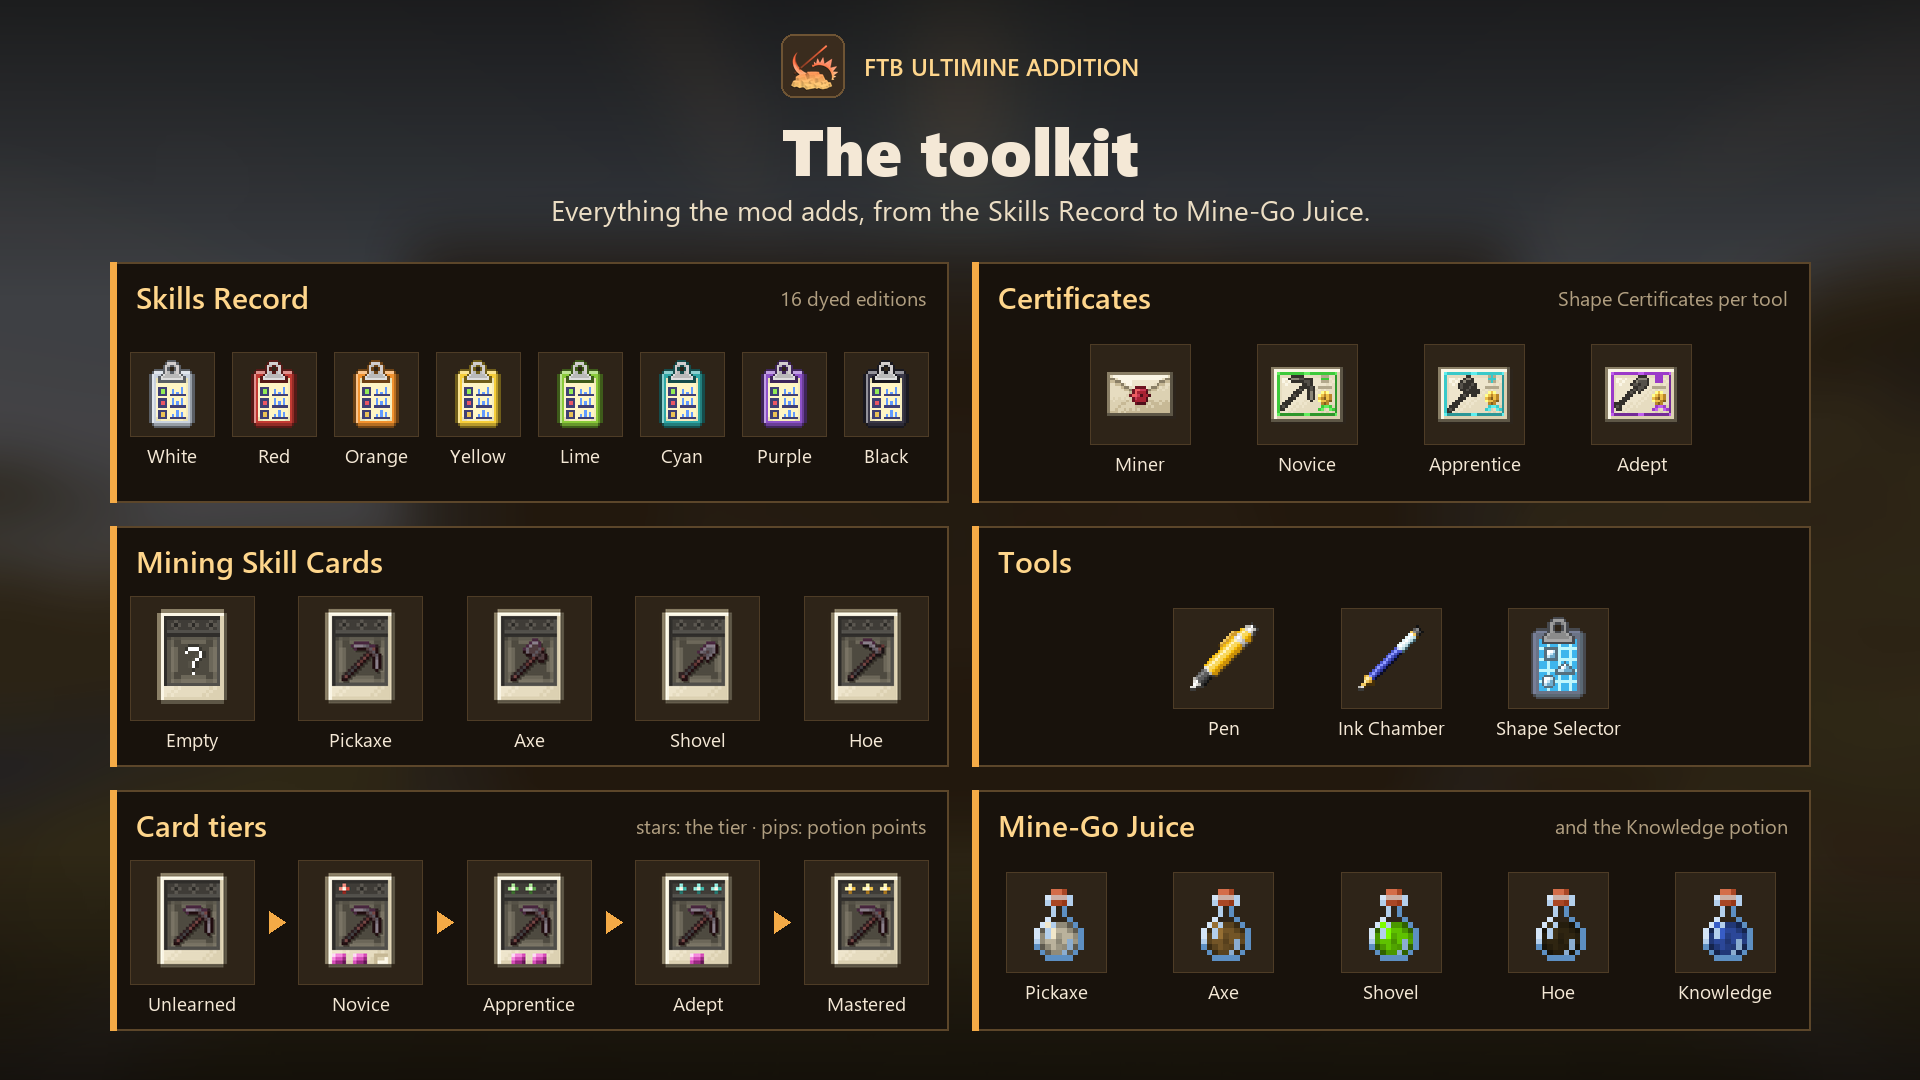
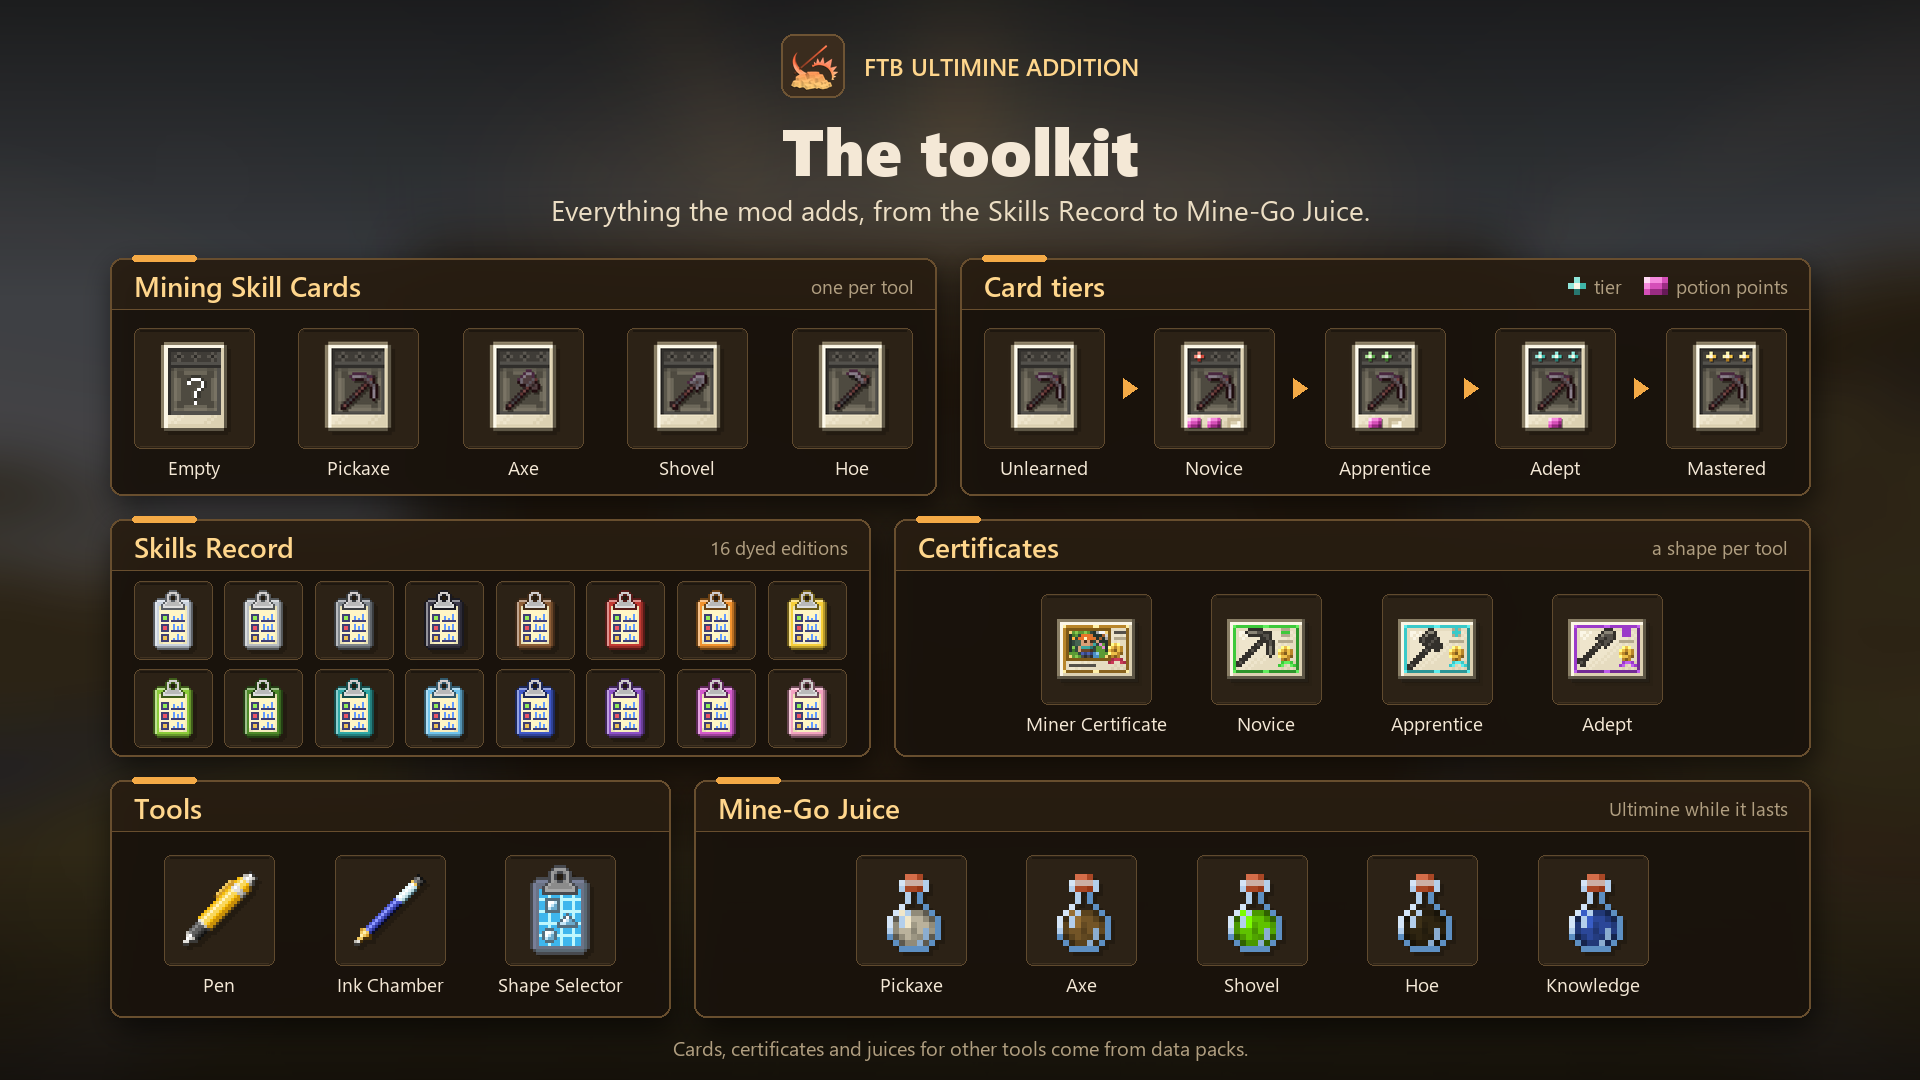
Refine the toolkit picture; rewards and the daily challenge are on every version

Changed region(s): [[0.0312, 0.2139, 0.9375, 0.9778], [0.875, 0.825, 0.9375, 0.9472]]

diff --git a/docs/docs/data-packs.md b/docs/docs/data-packs.md
@@ -14,11 +14,11 @@ Everything the mod reads from data packs. All of it reloads with `/reload`, and 
 | `data/<namespace>/challenges/` | Mining Skill Card challenges | [Challenges](../wiki/packs/challenges.md) |
 | `data/<namespace>/ultimine_shapes/` | Ultimine shapes | [Ultimine Shapes](../wiki/packs/shapes.md) |
 | `data/<namespace>/mining_skill_cards/` | Card types for other tools | [Custom Cards](../wiki/packs/custom-cards.md) |
-| `data/<namespace>/ultimine_rewards/` | Rewards for challenges, tiers and the daily challenge (26.1.2) | [Reward](#reward) |
+| `data/<namespace>/ultimine_rewards/` | Rewards for challenges, tiers and the daily challenge | [Reward](#reward) |
 
 A file's id is its namespace and its path under the folder, without `.json`: `data/mypack/ultimine_shapes/wide_cut.json` is `mypack:wide_cut`. Subfolders become part of the path.
 
-On 1.20.1 and 1.21.1 the folders are the same, except for the rewards.
+On 1.20.1 and 1.21.1 the folders are the same.
 
 ## Load order
 

diff --git a/docs/wiki/daily-challenge.md b/docs/wiki/daily-challenge.md
@@ -5,8 +5,6 @@ description: One challenge a day for everyone
 
 # Daily Challenge
 
-*Minecraft 26.1.2 only for now.*
-
 Every day the server picks one challenge that everyone shares. It needs no Mining Skill Card and no Skills Record: do what it asks with the right tool and it counts.
 
 ## How it works
